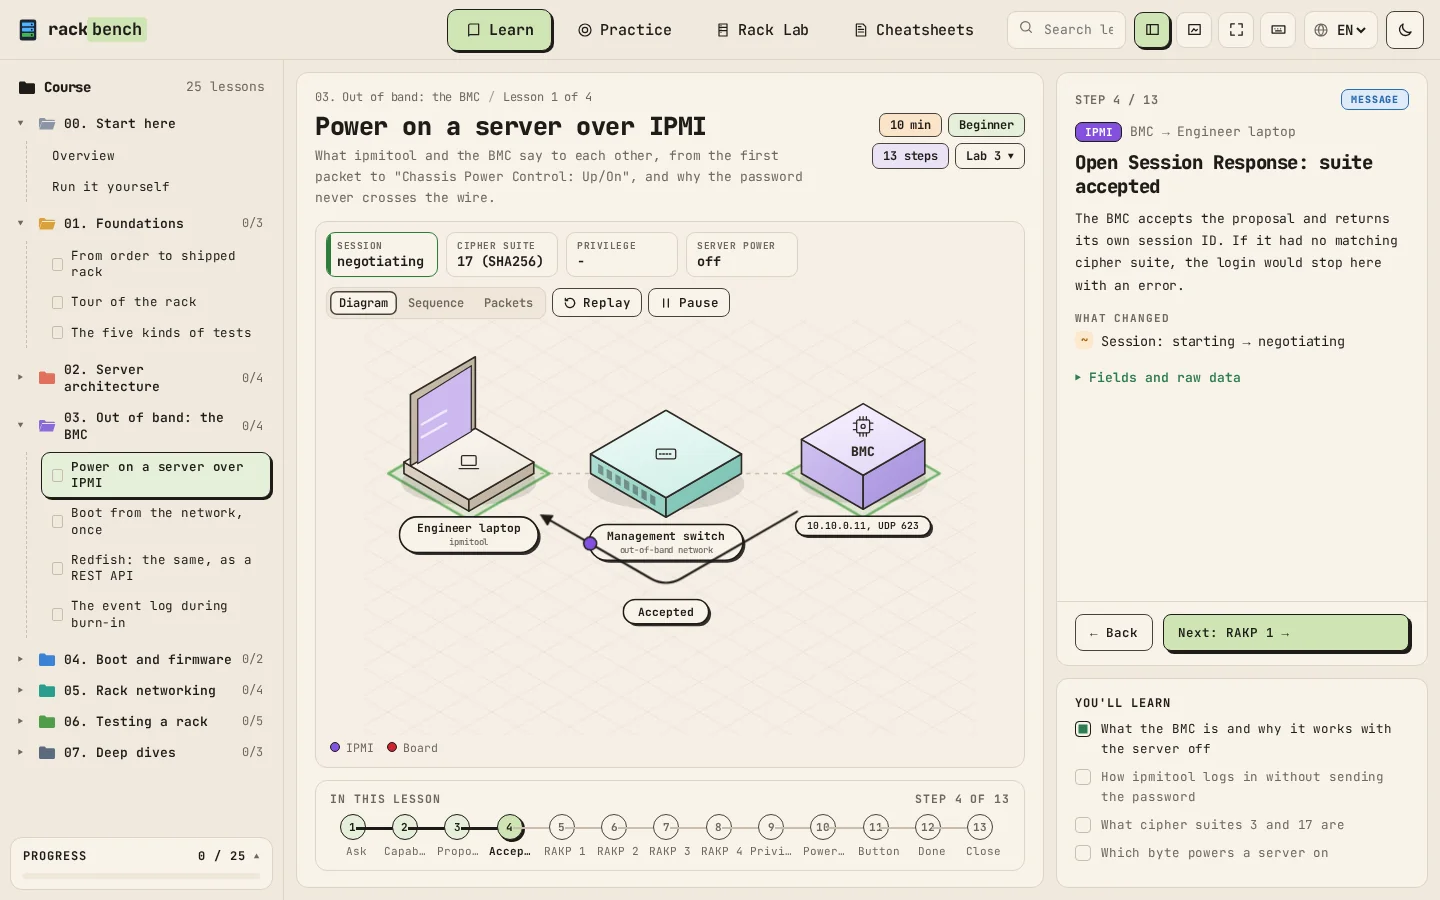
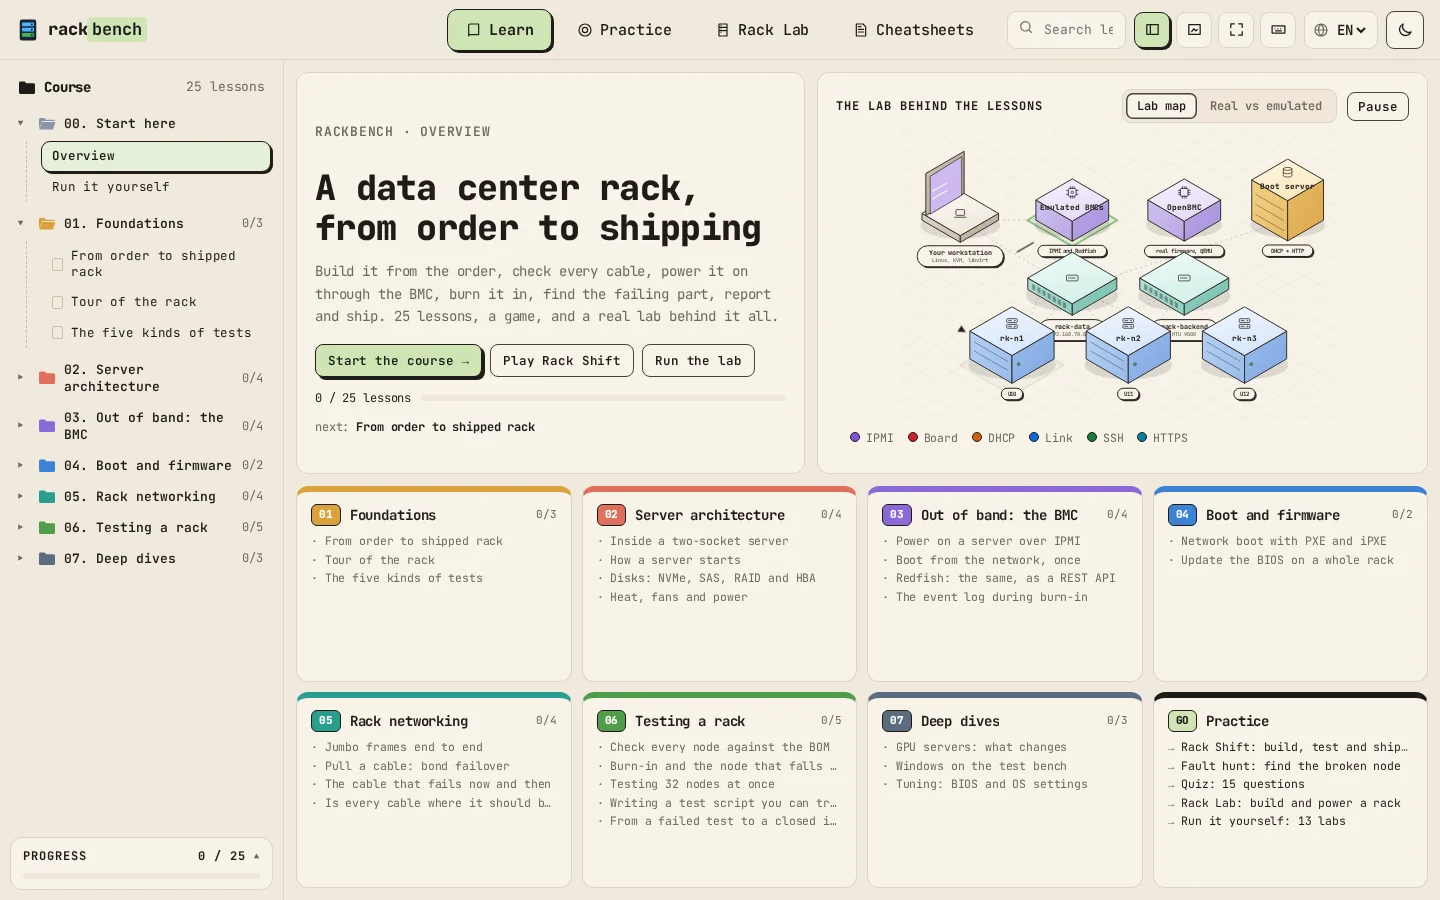
feat: Rackbench in Projects with source and lab links

diff --git a/components/apps/projects-data.js b/components/apps/projects-data.js
@@ -4,13 +4,13 @@
 
 const BASE = [
         {
-            name: "rackbench - A Server Rack on a Laptop, and an Explorer to Learn It",
+            name: "Rackbench - A Data Center Rack, from Order to Shipping",
             date: "Nov 2026",
             link: "https://rackbench.vercel.app",
             description: [
-                "A three-node server rack on KVM for learning how racks are tested before they ship. The nodes look like two-socket servers (SMBIOS serials, a BIOS version, two NUMA nodes); emulated BMCs answer IPMI and Redfish (virtualbmc, sushy-tools); OpenBMC runs in QEMU as real BMC firmware; iPXE boots machines from the network; a firmware tool drills a rack-wide BIOS update; a fault injector plants 11 kinds of faults. On top sits Rackbench Explorer, an interactive site: 25 animated lessons from server anatomy to GPU racks, a fault hunt, a quiz, a rack builder, cheatsheets, and Rack Shift, a game where you build, cable, power on, burn in, report and ship three racks.",
+                "An interactive way to learn how a data center rack is built, tested and shipped. 25 animated lessons in seven chapters, from what is inside a two-socket server to GPU racks: BMCs over IPMI and Redfish, network boot, firmware updates, cabling checks with LLDP, burn-in and fault finding, each step drawn as an isometric diagram with the real packets and commands. Rack Shift, a game, runs one shift on an integration floor: build three racks by the rules, check the cabling, power on, burn in, fix and retest, write the report and ship. Behind every lesson is rackbench-lab: a three-node rack on KVM with emulated BMCs, OpenBMC in QEMU, iPXE network boot, a BIOS-update drill and a fault injector with 11 faults.",
             ],
-            domains: ["kvm", "libvirt", "ipmi", "redfish", "openbmc", "bash", "react", "typescript"]
+            domains: ["data-center", "ipmi", "redfish", "openbmc", "kvm", "bash", "react", "typescript"]
         },
         {
             name: "aks-secure-platform-lab - Secure AKS Platform End to End",
@@ -381,7 +381,7 @@ const shots = (dir, n) => Array.from({ length: n }, (_, i) => `./images/projects
 
 // Keyed by the project's link. cats: first one sets the icon colour.
 const META = {
-    "https://rackbench.vercel.app": { cats: ["cloud", "tools"], glyph: "rack", badges: ["New", "Live site"], live: "https://rackbench.vercel.app", shots: shots("rackbench", 5) },
+    "https://rackbench.vercel.app": { cats: ["cloud", "tools"], glyph: "rack", badges: ["New", "Live site"], live: "https://rackbench.vercel.app", repo: GH + "rackbench", extra: [{ label: "Lab on GitHub", url: GH + "rackbench-lab" }], shots: shots("rackbench", 5) },
     [GH + "daycheck"]: { cats: ["mobile"], glyph: "calendar", docs: "https://adam-bouafia.github.io/daycheck/", shots: shots("daycheck", 3), portrait: true },
     [GH + "aks-platform-lab"]: { cats: ["cloud"], glyph: "shield", shots: shots("aks-secure-platform-lab", 2) },
     [GH + "The-illiterates"]: { cats: ["study"], glyph: "book", badges: ["Docs site"], docs: "https://the-illiterates.readthedocs.io/" },
@@ -449,7 +449,7 @@ export const PROJECTS = BASE.map((p) => {
         cats: meta.cats || ["study"],
         glyph: meta.glyph,
         badges: meta.badges || [],
-        repo: p.link.startsWith("https://github.com/") ? p.link : null,
+        repo: meta.repo || (p.link.startsWith("https://github.com/") ? p.link : null),
         live: meta.live || null,
         docs: meta.docs || null,
         extra: meta.extra || [],

diff --git a/components/apps/projects.js b/components/apps/projects.js
@@ -241,7 +241,7 @@ function Details({ project, onOpen }) {
                 </div>
                 <div className="flex flex-wrap gap-2">
                     {project.live && <LinkButton href={project.live} primary>Open site</LinkButton>}
-                    {project.repo && <LinkButton href={project.repo} primary={!project.live}>{project.repo.includes("/pull/") ? "View pull request" : "View on GitHub"}</LinkButton>}
+                    {project.repo && <LinkButton href={project.repo} primary={!project.live}>{project.repo.includes("/pull/") ? "View pull request" : project.live ? "Source on GitHub" : "View on GitHub"}</LinkButton>}
                     {project.docs && <LinkButton href={project.docs}>Docs</LinkButton>}
                     {project.extra.map((x) => (
                         <LinkButton key={x.url} href={x.url}>
